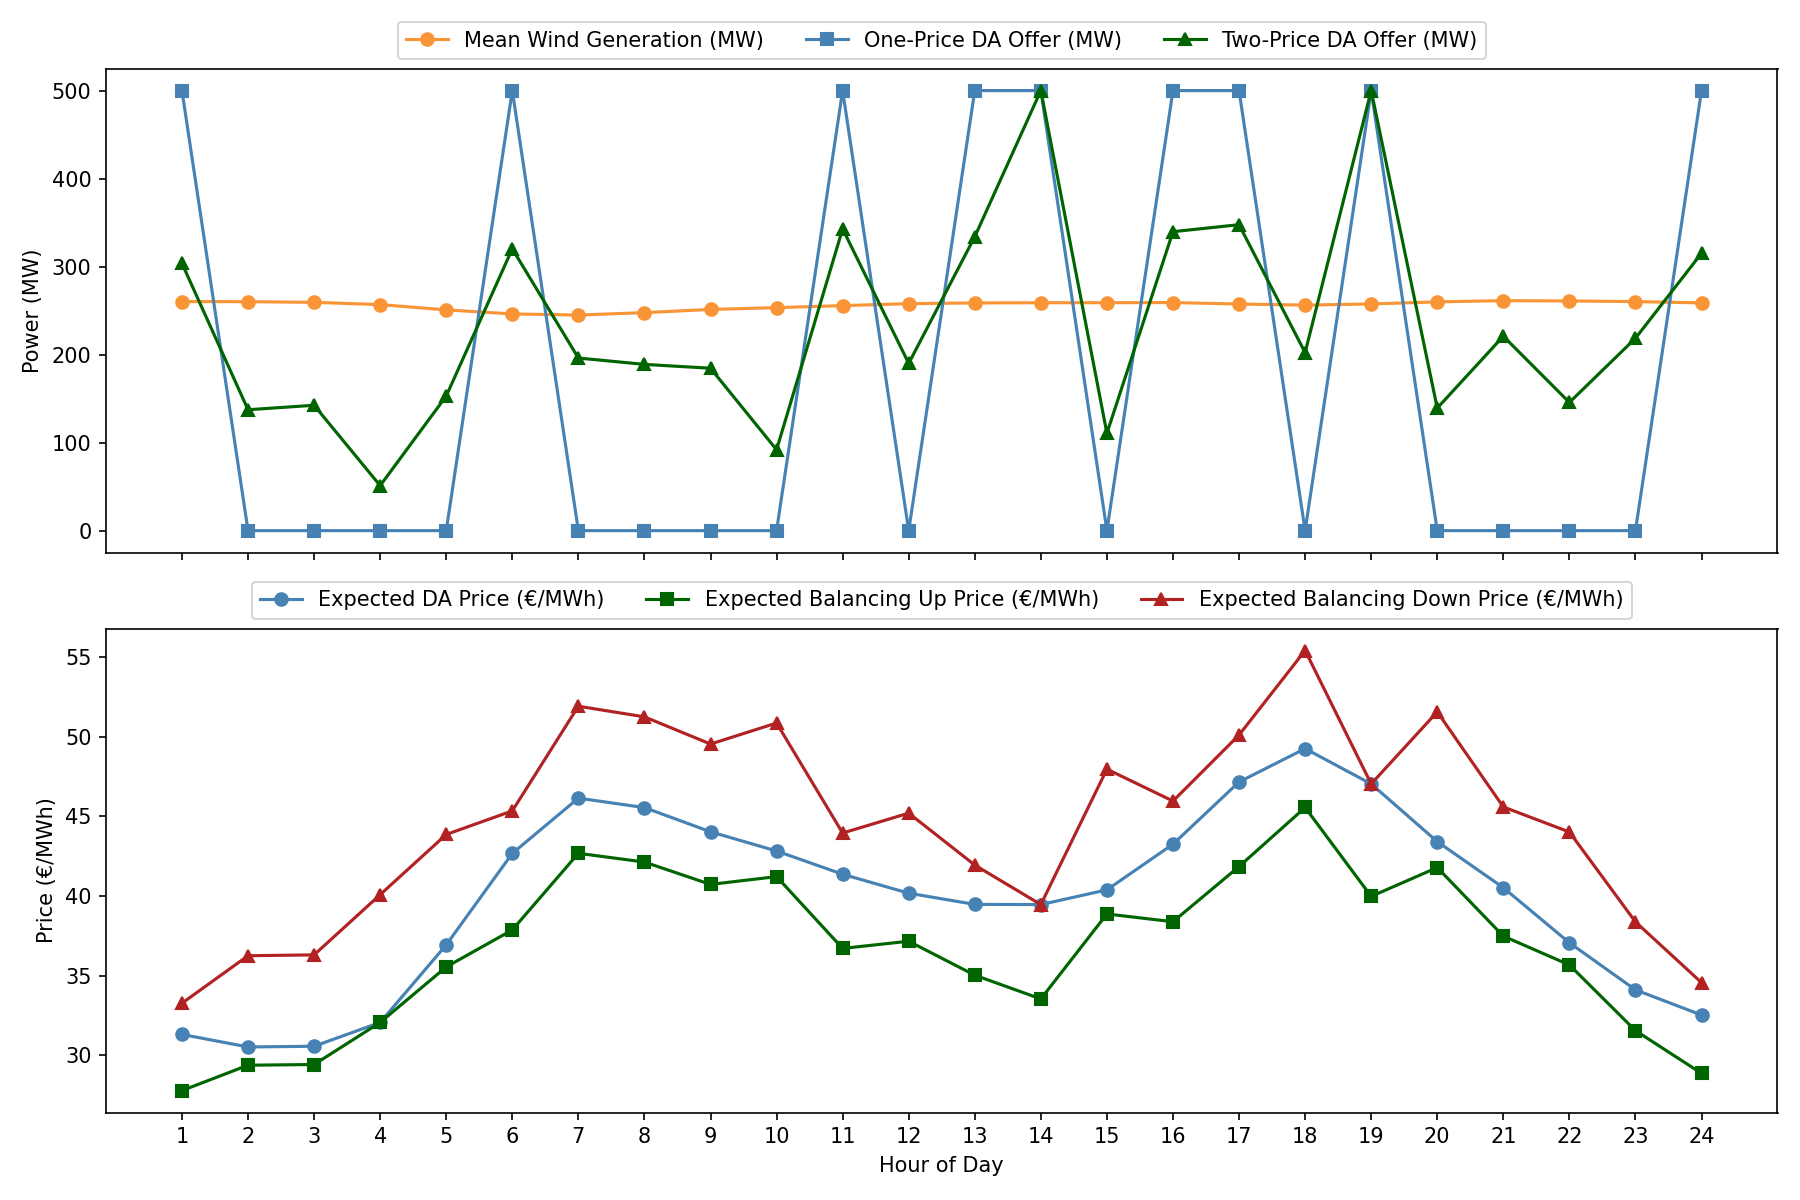
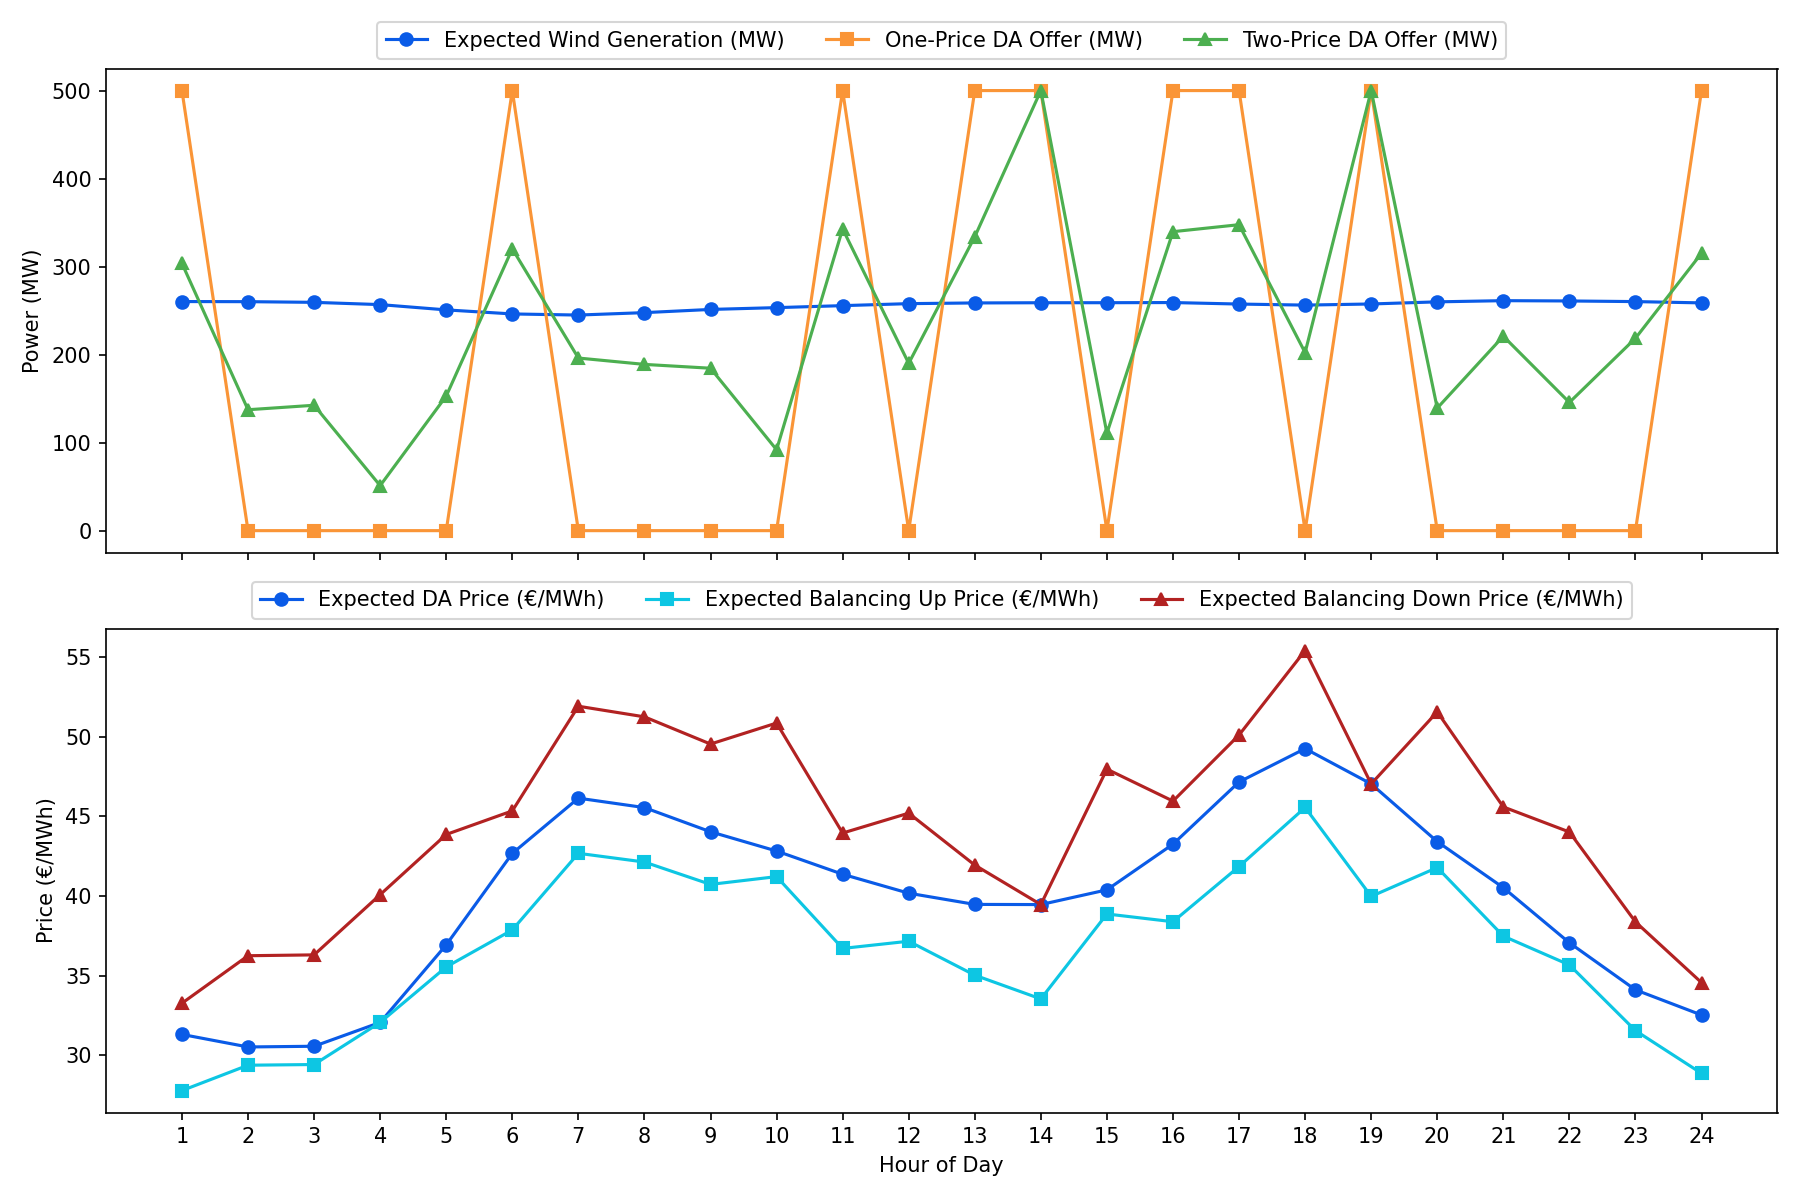
final adds

diff --git a/Step1_Task3.py b/Step1_Task3.py
@@ -1,6 +1,7 @@
 """
 Task 1.3) Ex-post Analysis
 8-fold cross validation using 200 in-sample and 1400 out-of-sample scenarios.
+Two-price and one-price schemes.
 """
 
 import numpy as np
@@ -8,85 +9,104 @@ import pandas as pd
 from step1.data import (
     wind_mw, lambda_DA, si, prob, SCENARIOS, HOURS, PLOTS
 )
-from step1.models import compute_balancing_prices_two, solve_two_price
+from step1.models import (
+    compute_balancing_prices_one, compute_balancing_prices_two,
+    solve_one_price, solve_two_price
+)
 from step1.plots import plot_crossvalidation
 
-# compute two-price balancing prices
+lambda_B                   = compute_balancing_prices_one(lambda_DA, si)
 lambda_B_up, lambda_B_down = compute_balancing_prices_two(lambda_DA, si)
 
-# 8-fold cross-validation
 N_FOLDS = 8
-
 np.random.seed(42)
 scenario_ids = np.array(SCENARIOS)
 np.random.shuffle(scenario_ids)
 folds = np.array_split(scenario_ids, N_FOLDS)
 
-results = []
+results_two = []
+results_one = []
 
 for fold_idx in range(N_FOLDS):
-    insample   = folds[fold_idx]
-    outsample  = np.concatenate([folds[i] for i in range(N_FOLDS) if i != fold_idx])
-    prob_insample  = prob[insample]  / prob[insample].sum()
-    prob_outsample = prob[outsample] / prob[outsample].sum()
+    insample  = folds[fold_idx]
+    outsample = np.concatenate([folds[i] for i in range(N_FOLDS) if i != fold_idx])
+    prob_in  = prob[insample]  / prob[insample].sum()
+    prob_out = prob[outsample] / prob[outsample].sum()
 
-    p_DA_values, _, _, _, _ = solve_two_price(
-        insample, prob_insample, wind_mw, lambda_DA, lambda_B_up, lambda_B_down
+    # ------------------------------------------------------------------ two-price
+    p_DA_two, _, _, _, _ = solve_two_price(
+        insample, prob_in, wind_mw, lambda_DA, lambda_B_up, lambda_B_down
     )
 
-    # in-sample profit
-    insample_profit = sum(
-        prob_insample[omega] * (
-            lambda_DA.loc[omega, h]     * p_DA_values[h] +
-            lambda_B_up.loc[omega, h]   * max(wind_mw.loc[omega, h] - p_DA_values[h], 0) -
-            lambda_B_down.loc[omega, h] * max(p_DA_values[h] - wind_mw.loc[omega, h], 0)
+    insample_profit_two = sum(
+        prob_in[omega] * (
+            lambda_DA.loc[omega, h]     * p_DA_two[h] +
+            lambda_B_up.loc[omega, h]   * max(wind_mw.loc[omega, h] - p_DA_two[h], 0) -
+            lambda_B_down.loc[omega, h] * max(p_DA_two[h] - wind_mw.loc[omega, h], 0)
         )
-        for omega in insample
-        for h in HOURS
+        for omega in insample for h in HOURS
     )
-
-    # day-ahead profit (in-sample)
-    da_profit = sum(
-        prob_insample[omega] * lambda_DA.loc[omega, h] * p_DA_values[h]
-        for omega in insample
-        for h in HOURS
+    da_profit_two = sum(
+        prob_in[omega] * lambda_DA.loc[omega, h] * p_DA_two[h]
+        for omega in insample for h in HOURS
     )
-
-    # out-of-sample imbalance cost
-    outsample_average_imbalance_cost = sum(
-        prob_outsample[omega] * (
-            lambda_B_up.loc[omega, h]   * max(wind_mw.loc[omega, h] - p_DA_values[h], 0) -
-            lambda_B_down.loc[omega, h] * max(p_DA_values[h] - wind_mw.loc[omega, h], 0)
+    outsample_bal_two = sum(
+        prob_out[omega] * (
+            lambda_B_up.loc[omega, h]   * max(wind_mw.loc[omega, h] - p_DA_two[h], 0) -
+            lambda_B_down.loc[omega, h] * max(p_DA_two[h] - wind_mw.loc[omega, h], 0)
         )
-        for omega in outsample
-        for h in HOURS
+        for omega in outsample for h in HOURS
     )
-
-    outsample_profit = da_profit + outsample_average_imbalance_cost
-
-    results.append({
-        'fold':                              fold_idx,
-        'insample_profit':                   insample_profit,
-        'da_profit':                         da_profit,
-        'outsample_average_imbalance_cost':  outsample_average_imbalance_cost,
-        'outsample_profit':                  outsample_profit,
+    results_two.append({
+        'fold':             fold_idx,
+        'insample_profit':  insample_profit_two,
+        'da_profit':        da_profit_two,
+        'outsample_profit': da_profit_two + outsample_bal_two,
     })
 
-results_df = pd.DataFrame(results)
+    # ------------------------------------------------------------------ one-price
+    p_DA_one, _, _, _, _ = solve_one_price(
+        insample, prob_in, wind_mw, lambda_DA, lambda_B
+    )
 
-avg_insample_da_profit  = results_df['da_profit'].mean()
-avg_insample_profit     = results_df['insample_profit'].mean()
-avg_outsample_profit    = results_df['outsample_profit'].mean()
+    insample_profit_one = sum(
+        prob_in[omega] * (
+            lambda_DA.loc[omega, h] * p_DA_one[h] +
+            lambda_B.loc[omega, h]  * (wind_mw.loc[omega, h] - p_DA_one[h])
+        )
+        for omega in insample for h in HOURS
+    )
+    da_profit_one = sum(
+        prob_in[omega] * lambda_DA.loc[omega, h] * p_DA_one[h]
+        for omega in insample for h in HOURS
+    )
+    outsample_bal_one = sum(
+        prob_out[omega] * lambda_B.loc[omega, h] * (wind_mw.loc[omega, h] - p_DA_one[h])
+        for omega in outsample for h in HOURS
+    )
+    results_one.append({
+        'fold':             fold_idx,
+        'insample_profit':  insample_profit_one,
+        'da_profit':        da_profit_one,
+        'outsample_profit': da_profit_one + outsample_bal_one,
+    })
 
-print(f"Average out-of-sample profit: {avg_outsample_profit:,.2f}€")
-print(f"Average in-sample profit:    {avg_insample_profit:,.2f}€")
-print(f"Average in-sample DA profit: {avg_insample_da_profit:,.2f}€")
-print()
-print(results_df.to_string(index=False))
+df_two = pd.DataFrame(results_two)
+df_one = pd.DataFrame(results_one)
 
-# plot scatter plot and bar plot of in-sample vs out-of-sample profits 
+for label, df in [("Two-price", df_two), ("One-price", df_one)]:
+    print(f"\n=== {label} cross-validation ===")
+    print(f"Average in-sample profit:  {df['insample_profit'].mean():,.2f}€")
+    print(f"Average out-of-sample profit: {df['outsample_profit'].mean():,.2f}€")
+    print(df.to_string(index=False))
+
 plot_crossvalidation(
-    results_df,
-    save_path_scatter=PLOTS / "Task1.3_crossvalidation_scatter.png",
-    save_path_bar=PLOTS    / "Task1.3_crossvalidation_barplot.png",
+    df_two,
+    save_path_scatter=PLOTS / "Task1.3_two_price_crossvalidation_scatter.png",
+    save_path_bar=    PLOTS / "Task1.3_two_price_crossvalidation_barplot.png",
+)
+plot_crossvalidation(
+    df_one,
+    save_path_scatter=PLOTS / "Task1.3_one_price_crossvalidation_scatter.png",
+    save_path_bar=    PLOTS / "Task1.3_one_price_crossvalidation_barplot.png",
 )

diff --git a/Step1_Task4.py b/Step1_Task4.py
@@ -306,6 +306,37 @@ for entry in frontier_two:
 
         print(f"{h+1:>5} {pct_def:>9.1f}% {pct_sur:>9.1f}% {dominant:>10}")
 
+# two-price gradient analysis
+print("\n=== Two-price: gradient analysis per hour ===")
+print(f"{'hour':>5} {'grad_E':>12} {'grad_CVaR':>12} {'same_sign':>10} {'p_DA':>8}")
+
+for entry in frontier_two:
+    beta        = entry["beta"]
+    profit_dict = entry["scenario_profit"]
+    p_DA_opt    = entry["p_DA_values"]
+
+    n_worst      = max(1, math.floor(round((1 - ALPHA) * len(SCENARIOS), 6)))
+    worst_omegas = sorted(profit_dict, key=lambda w: profit_dict[w])[:n_worst]
+
+    print(f"\nbeta={beta:.2f}")
+    for h in HOURS:
+        def grad_profit(omega, h=h):
+            w = wind_mw.loc[omega, h]
+            p = p_DA_opt[h]
+            if w < p:
+                return lambda_DA.loc[omega, h] - lambda_B_down.loc[omega, h]
+            elif w > p:
+                return lambda_DA.loc[omega, h] - lambda_B_up.loc[omega, h]
+            else:
+                return lambda_DA.loc[omega, h]
+
+        grad_E    = sum(prob[omega] * grad_profit(omega) for omega in SCENARIOS)
+        grad_cvar = (1 / (1 - ALPHA)) * sum(
+            prob[omega] * grad_profit(omega) for omega in worst_omegas
+        )
+        same_sign = (grad_E * grad_cvar) >= 0
+        print(f"{h+1:>5} {grad_E:>12.4f} {grad_cvar:>12.4f} {str(same_sign):>10} {p_DA_opt[h]:>8.0f}")
+
 from step1.plots import plot_imbalance_transition
 
 print("\n=== Solve times summary ===")
@@ -322,7 +353,6 @@ plot_imbalance_transition(
 )
 
 # --- worst-scenario analysis (two-price, beta=0/1) ---
-# identify the (1-alpha) worst scenarios by profit 
 def worst_scenario_analysis(frontier_entry, label):
     profit_dict = frontier_entry["scenario_profit"]
     p_DA_opt    = frontier_entry["p_DA_values"]
@@ -369,9 +399,9 @@ def worst_scenario_analysis(frontier_entry, label):
     print(f"Avg DA price [€/MWh]:{df['lda'].mean():.1f}")
 
     return df
+
 df_worst_b0 = worst_scenario_analysis(baseline_two,      "beta=0")
 df_worst_b1 = worst_scenario_analysis(frontier_two[-1],  "beta=1")
-
 
 # frontier plot (two-price)
 frontier_two_df = pd.DataFrame(frontier_two)
@@ -384,7 +414,7 @@ plot_cvar_frontier(
 # comparison of frontiers (one-price vs two-price)
 plot_cvar_frontier_With_Both_Models(
     frontier_one_df, frontier_two_df, None, PLOTS / "Task1.4_both_models_profit_cvar_tradeoff.png"
-) 
+)
 
 # profit distribution at beta=1
 scenario_profit_beta1 = frontier_two[-1]["scenario_profit"]
@@ -392,7 +422,7 @@ plot_profit_histogram(
     scenario_profit_beta1, prob,
     save_path=PLOTS / "Task1.4_two_price_profit_distribution_beta1.png",
     color="#4CAF50"
-) 
+)
 
 # profit boxplot across scenarios for different beta values (one-price)
 plot_profit_boxplot(
@@ -401,21 +431,22 @@ plot_profit_boxplot(
     title="Profit distribution vs. risk aversion — one-price scheme",
     save_path=PLOTS / "Task1.4_one_price_boxplot.png",
 )
+
 # profit boxplot across scenarios for different beta values (two-price)
 plot_profit_boxplot(
     frontier_two,
     color="#3fe60c",
     title="Profit distribution vs. risk aversion — two-price scheme",
     save_path=PLOTS / "Task1.4_two_price_boxplot.png",
-) 
+)
 
-# single plot with bockplots for both models
+# single plot with boxplots for both models
 plot_profit_boxplot_comparison(
     frontier_one, frontier_two,
     save_path=PLOTS / "Task1.4_boxplot_comparison.png",
-) 
+)
 
-# worst scenarios for profit (used to analyse the change of hourly offers when increasing beta)
+# worst scenarios for profit
 worst_omegas_b0 = sorted(
     baseline_two["scenario_profit"],
     key=lambda w: baseline_two["scenario_profit"][w]

diff --git a/step1/plots.py b/step1/plots.py
@@ -345,8 +345,8 @@ def plot_profit_histogram_comparison(scenario_profit_one, scenario_profit_two, p
 def plot_offers_and_prices_two(wind_mw, p_DA_one, p_DA_two, 
                                 expected_DA, expected_B_up, expected_B_down,
                                 hours, save_path=None,
-                                color_wind="#fa9537", color_one="steelblue", 
-                                color_two="darkgreen"):
+                                color_wind="#0a5be7", color_one="#fa9537", 
+                                color_two="#4CAF50"):
     """
     Two-subplot figure:
     - Top: mean wind generation + one-price and two-price DA offers (MW)
@@ -374,15 +374,15 @@ def plot_offers_and_prices_two(wind_mw, p_DA_one, p_DA_two,
     fig, (ax1, ax2) = plt.subplots(2, 1, figsize=(12, 8), sharex=True)
 
     # top subplot: offers
-    ax1.plot(hours, mean_wind,  marker='o', color=color_wind, label='Mean Wind Generation (MW)')
+    ax1.plot(hours, mean_wind,  marker='o', color=color_wind, label='Expected Wind Generation (MW)')
     ax1.plot(hours, one_offers, marker='s', color=color_one,  label='One-Price DA Offer (MW)')
     ax1.plot(hours, two_offers, marker='^', color=color_two,  label='Two-Price DA Offer (MW)')
     ax1.set_ylabel('Power (MW)')
     ax1.legend(bbox_to_anchor=(0.5, 1.02), loc='lower center', ncol=3, borderaxespad=0)
 
     # bottom subplot: prices
-    ax2.plot(hours, da_prices, marker='o', color=color_one,  label='Expected DA Price (€/MWh)')
-    ax2.plot(hours, b_up,      marker='s', color=color_two,  label='Expected Balancing Up Price (€/MWh)')
+    ax2.plot(hours, da_prices, marker='o', color=color_wind,  label='Expected DA Price (€/MWh)')
+    ax2.plot(hours, b_up,      marker='s', color="#0DC6E3",  label='Expected Balancing Up Price (€/MWh)')
     ax2.plot(hours, b_down,    marker='^', color='firebrick', label='Expected Balancing Down Price (€/MWh)')
     ax2.set_ylabel('Price (€/MWh)')
     ax2.set_xlabel('Hour of Day')